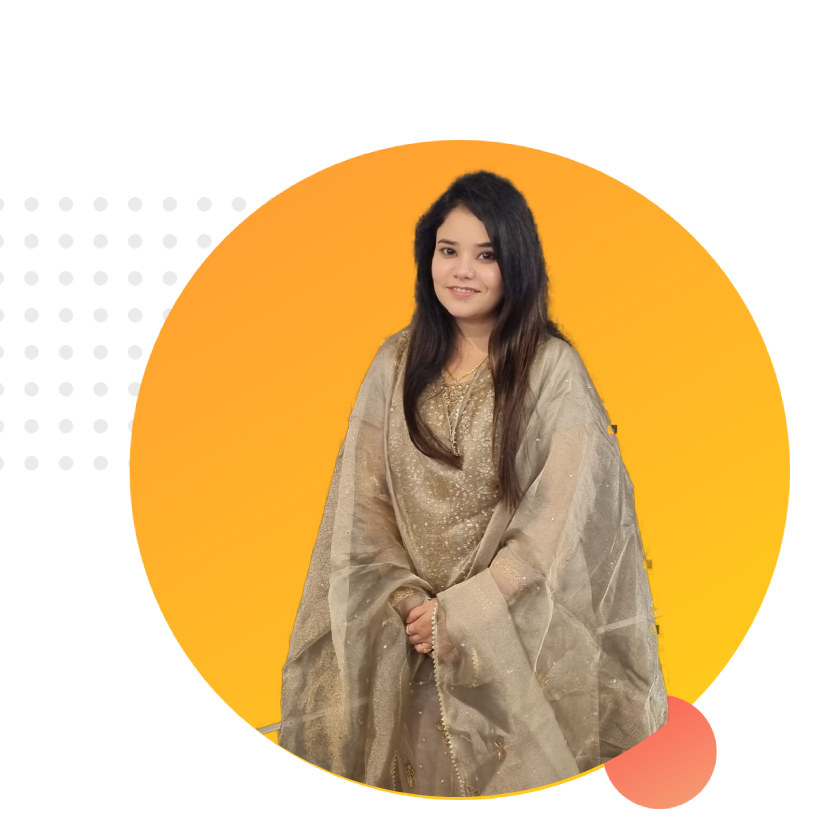
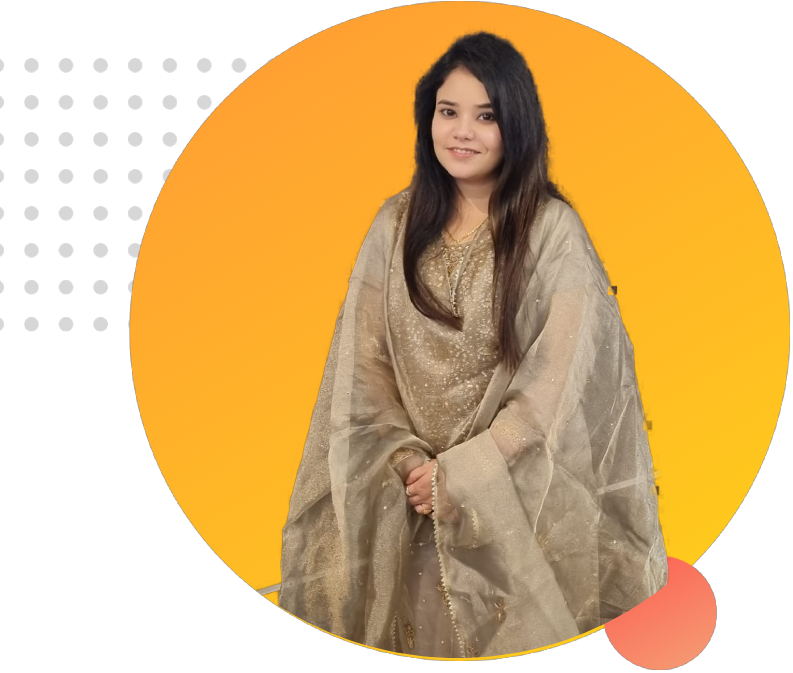
Complete my task

diff --git a/index.html b/index.html
@@ -1,32 +1,67 @@
 <!DOCTYPE html>
 <html lang="en">
   <head>
-    <meta charset="UTF-8" />
-    <meta http-equiv="X-UA-Compatible" content="IE=edge" />
-    <meta name="viewport" content="width=device-width, initial-scale=1.0" />
     <title>MY website</title>
-    <link
-      href="https://fonts.googleapis.com/css2?family=Poppins&display=swap"
-      rel="stylesheet"
-    />
+    <link href="https://fonts.googleapis.com/css2?family=Poppins&display=swap" rel="stylesheet" />
     <link rel="stylesheet" href="style.css" />
   </head>
   <body>
-    <section>
+    <section class="top-banner">
       <div class="half-width">
         <h1>Welcome To</h1>
-        <h1><span class="name-highlight">Mahi</span> Website</h1>
+        <h1><span class="orange-highlight">Mahi</span> Website</h1>
         <h3>World-Class Pprofessional Web Devoloper</h3>
         <p>
-          you might saw me jumping,climbing buildings,and stopping trains,but
-          nobody pays me a dime for that work,thats why im learning andmastering
-          web Devolopment. i will not stop until i become a web Devolopment
-          hero.
+          you might saw me jumping,climbing buildings,and stopping trains,but nobody pays me a dime for that work,thats
+          why im learning andmastering web Devolopment. i will not stop until i become a web Devolopment hero.
         </p>
+        <a class="link-button" target="_blank" href="https://www.linkedin.com/in/ms-roksar-akter-027323207">HIRE ME</a>
       </div>
       <div class="half-width">
         <img src="./images/Mahi/profile.png" alt="" />
       </div>
     </section>
+    <section class="dream-area">
+      <div class="half-width">
+        <img src="/images/Mahi/image 11.png" alt="" />
+      </div>
+      <div class="half-width">
+        <h2>Big Dream</h2>
+        <h3>Become a Web Devoloper</h3>
+        <p>
+          I already learned the basic HTML and css.I can build any simple version website.I can even teach my grandma
+          how to make simple website.My goal to build 3 website and learned advance topics.
+        </p>
+        <a
+          class="link-button"
+          target="_blank"
+          href="https://qgrcjhshblxdvqffqpqlmclsdhjcwqkstxv/?projector=1&messagePartId=0.1"
+          >DOWNLOAD RESUME</a
+        >
+      </div>
+    </section>
+    <section class="Experience-area">
+      <h2>Experiences</h2>
+      <div id="full-stack" class="half-width single-experience">
+        <h2>Full Stack Web Developer</h2>
+        <h3 class="orange-highlight">2021 - Present | Pro-level web developer</h3>
+        <p>
+          I'm the master of HTML,css,javascript.I know everything needed to make a website function.I didn't stop with
+          the web i want beyond with most popular javascipt famework called Vue JS.I even know the Deployment, server
+          and security. I will give you 100% web solution.
+        </p>
+      </div>
+      <div id="baby-web" class="half-width single-experience">
+        <h2>Baby Web Developer</h2>
+        <h3 class="orange-highlight">2020-2021 | Programming Hero Learner</h3>
+        <p>
+          They didn't offer me a job.But i made myself as a remove web developer.I made their website and showed it to
+          them.They like it.And uploaded the content.It was fun working at Programming Hero
+        </p>
+      </div>
+    </section>
+    <footer>
+      <p>@ Mahi 2021,a Programming Hero Initiative.</p>
+    </footer>
   </body>
 </html>

diff --git a/style.css b/style.css
@@ -1,18 +1,71 @@
 body {
+  margin: 0;
   font-family: "Poppins", sans-serif;
 }
 h1 {
   font-size: 40px;
 }
-.name-highlight {
+h2 {
+  font-size: 30px;
+}
+p {
+  color: dimgray;
+}
+.orange-highlight {
   color: orange;
 }
 .half-width {
   width: 40%;
   float: left;
   margin-left: 5%;
-  pedding-left: 2%;
+  padding-left: 2%;
 }
 .half-width img {
-  width: 100%;
+  width: 80%;
+}
+.top-banner {
+  background-image: url("images/developer-portfolio/top-banner.png");
+  background-repeat: no-repeat;
+}
+section {
+  height: 500px;
+  padding-bottom: 150px;
+}
+.link-button {
+  text-decoration: none;
+  background-image: linear-gradient(45deg, lightsalmon, tomato);
+  padding: 10px 20px;
+  border-radius: 10px;
+  color: white;
+  font-weight: 700;
+}
+.dream-area {
+  background-image: url("images/developer-portfolio/dream-bg.png");
+  background-repeat: no-repeat;
+  background-position: right;
+}
+.single-experience {
+  box-shadow: 10px 10px 40px gray;
+  border-radius: 10px;
+  height: 70%;
+  background-color: white;
+}
+.Experience-area {
+  background-image: url("images/developer-portfolio/exp-bg.png");
+  background-repeat: no-repeat;
+  background-position: left;
+}
+#full-stack {
+  border-left: 6px solid;
+  border-image: linear-gradient(180deg, lightsalmon, tomato);
+  border-image-slice: 1;
+}
+#baby-web {
+  border-left: 6px solid;
+  border-image: linear-gradient(180deg, blue, cyan);
+  border-image-slice: 1;
+}
+footer p {
+  text-align: center;
+  font-size: 10px;
 }
